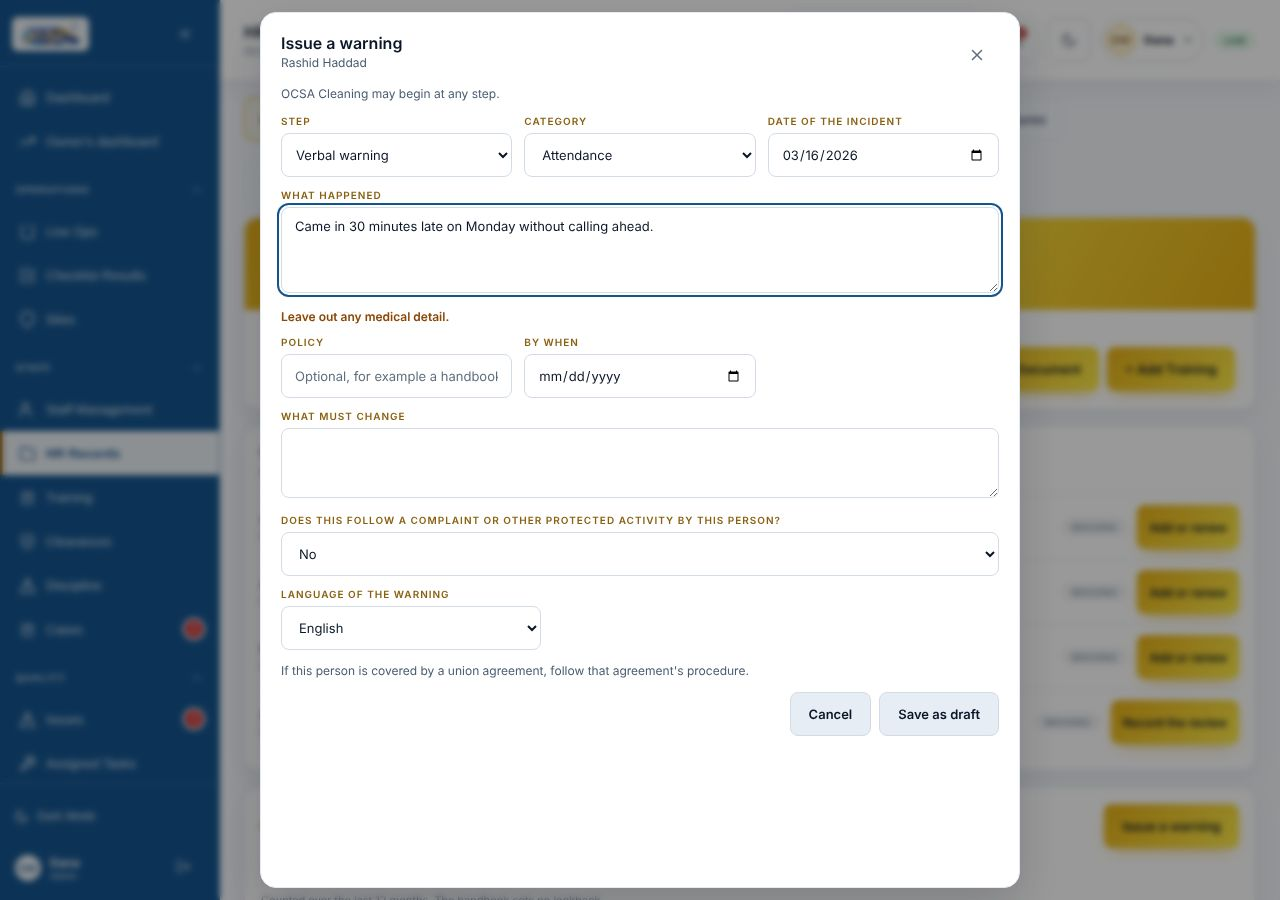
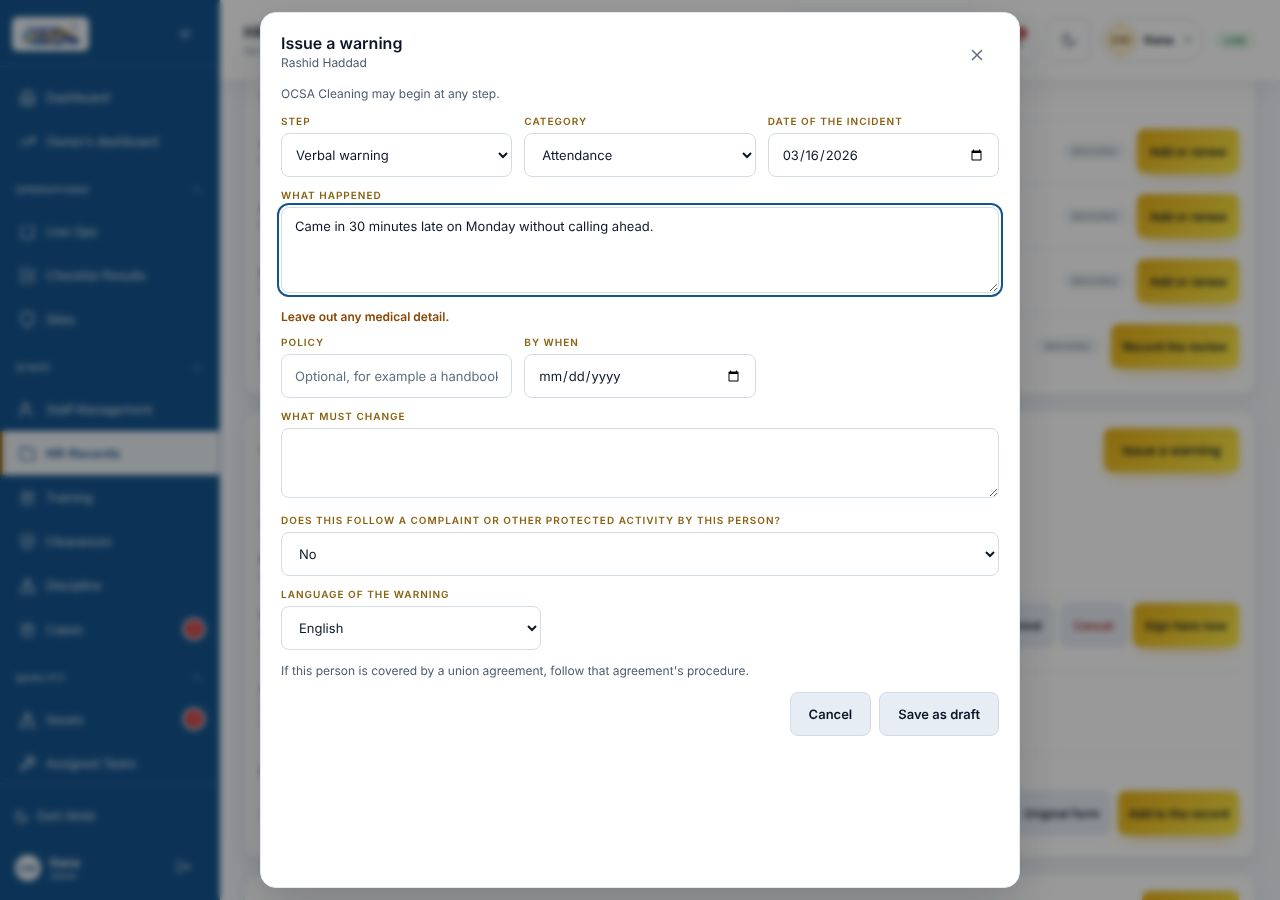
Dashboard findings (part 366): a picture of Discipline's Issue a warning
The person picked first, the new window the DASH-26 change adds, in English
and Spanish, as the second picture of Issue a verbal warning. Taken after
the full audit, which ran on the commit before; nothing under src/ changed.

Claude-Session: https://claude.ai/code/session_01VZ8K82TC9HCHBVeJJqXb1e

diff --git a/audit/shots.js b/audit/shots.js
@@ -1196,6 +1196,14 @@ const SHOTS = [
     } },
   { name: "discipline-page", entry: "See every warning on the Discipline page",
     open: "discipline", ready: "[data-discipline-page] table tbody tr" },
+  // Part 366 (DASH-26): Issue a warning from the Discipline page, the person picked first.
+  { name: "discipline-issue-for", entry: "Issue a verbal warning",
+    open: "discipline", ready: "[data-discipline-page] table tbody tr",
+    act: async (c) => {
+      await press(c, "Issue a warning", "[data-discipline-page]");
+      await until(c, "[data-discipline-issue-for]");
+      await c.d.pickPerson("Tomasz");
+    } },
   { name: "case-open-window", entry: "Open a case",
     open: "cases", ready: "table tbody tr",
     act: async (c) => {

diff --git a/guide/APP-DASHBOARD.md b/guide/APP-DASHBOARD.md
@@ -1401,6 +1401,7 @@ Who can do this: admins and supervisors
 8. Under **Issue** (**Emitir**), click **Issue** (**Emitir**). **A verbal warning is a note of the conversation, placed on the record. It takes no signatures.** (**Una advertencia verbal es una nota de la conversación que queda en el registro. No lleva firmas.**)
 9. Under **Send** (**Enviar**), record how it was given; see the entry on sending a warning.
 Words people use for this: verbal warning, write up, write-up, discipline, coaching, warn an employee, advertencia verbal.
+Picture: discipline-issue-for
 Picture: warning-verbal-window
 Last checked: 2026-10-20
 
